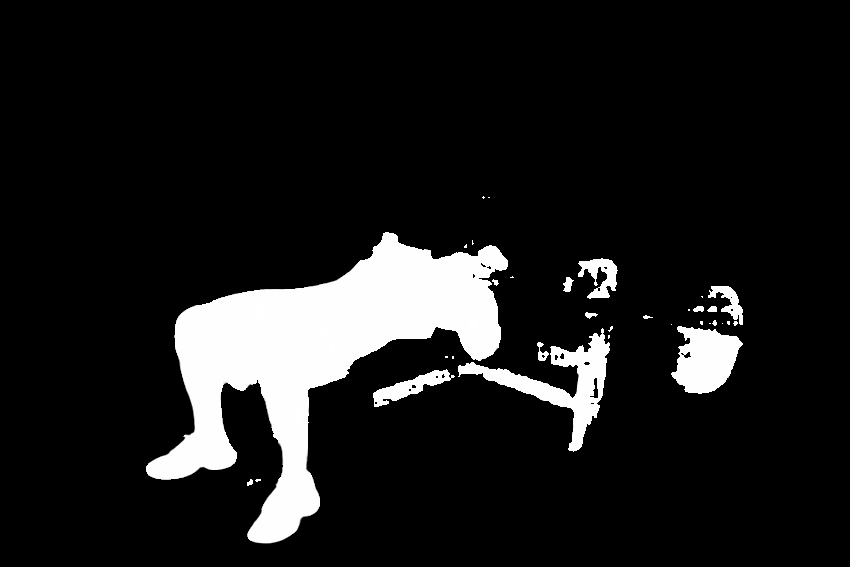
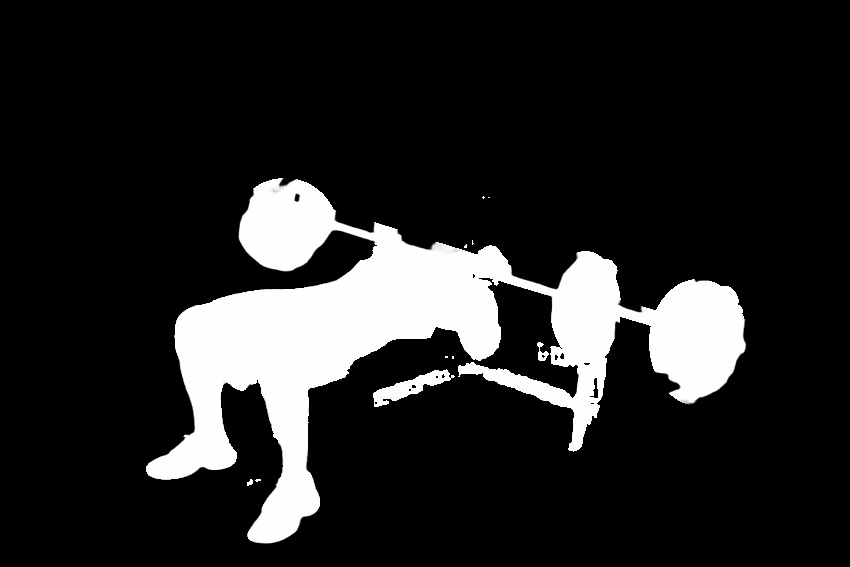
Retain close-grip working barbell along its contour and document reproducible release assets

Changed region(s): [[0.5812, 0.4198, 0.8871, 0.6896], [0.2753, 0.2998, 0.5506, 0.4797], [0.7953, 0.6896, 0.8259, 0.7196]]

diff --git a/docs/V0.6.5_UI.md b/docs/V0.6.5_UI.md
@@ -1,7 +1,10 @@
 # FitClub 0.6.5
 
-- Profile offers only «Светлая» and «Темная», with blue accents. Existing White Day settings migrate to light; former dark themes migrate to dark. Legacy accent values cannot restore removed themes.
-- All 448 technique photographs use full-resolution foreground mattes, shared by detailed photos and thumbnails. Athlete and salient equipment retain colour/contrast; background has reduced saturation, contrast and opacity. Gaps are masked per pixel; no rectangle is used to preserve equipment.
-- Contours are generated at build time using pinned BiRefNet general-lite weights (upstream BiRefNet MIT license). The model is not included or executed on phones, and source photos/poses are unchanged.
-- Both technique frames are processed. Edge padding is trimmed using the original image; fit scaling preserves equipment and the entire athlete.
-- Tests cover old theme migration, contour holes/detached equipment, padding and 448 aligned masks. Native Android renderer exports representative large/small previews for visual review before merge.
+- Only «Светлая» and «Темная» are offered. White Day migrates to light; previous dark and pink themes migrate to dark with blue accents.
+- All 448 source photographs and full-resolution contour masks are available offline. Both detailed photos and thumbnails use the same foreground contrast and background fading, without painting rectangular regions around equipment.
+- Asset preparation uses pinned BiRefNet fine mattes, Grounding DINO object proposals, and MobileSAM silhouettes with foreground/background points. Multiple silhouettes are compared against the fine matte. Only equipment near the athlete is retained; bench detection is restricted to relevant exercises.
+- The segmentation models run only during asset preparation. Their weights and inference code are not included in the APK.
+- Release masks are committed with source and mask SHA-256 values in exercise_masks/manifest.json. Ordinary CI validates those hashes and runs Android tests; it does not regenerate masks or rely on expiring workflow artifacts.
+- The native Android renderer exports all 448 frames as contact sheets plus representative large/thumbnail previews. Visual inspection is required in addition to size and coverage checks.
+- Source photos are pinned to free-exercise-db f00c92c7dcf1216a928a52c3706c7ce8e2f71ed5. Grounding DINO is pinned to a2bb814dd30d776dcf7e30523b00659f4f141c71; MobileSAM to f706ad9c4eb7f219c00d9050e46328518ffb65d2 with checkpoint SHA-256 6dbb90523a35330fedd7f1d3dfc66f995213d81b29a5ca8108dbcdd4e37d6c2f.
+- For regeneration, prepare fresh BiRefNet baseline masks using scripts/prepare_exercise_masks.py in a clean asset-preparation workspace, then run scripts/prepare_semantic_masks.py with the desired shard selection. Review regenerated images before replacing release assets; do not use released masks as a fresh baseline.
